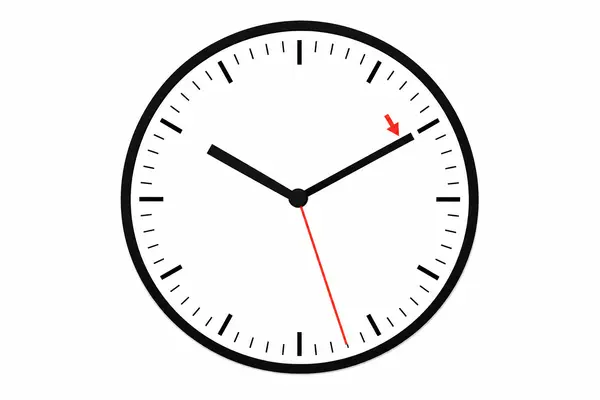
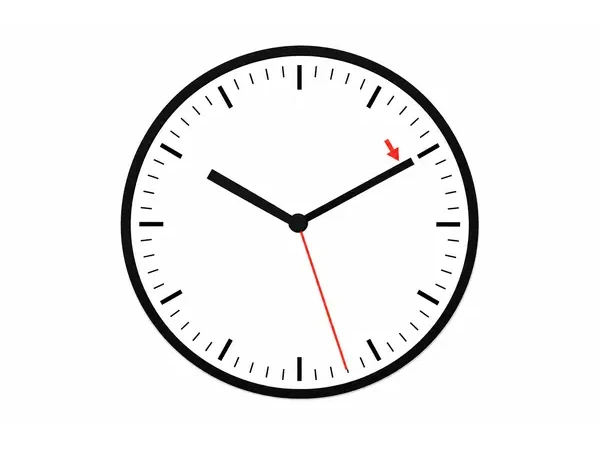
Vocab: images 4:3 (jours, heure) et illustrations manquantes
- Recadrer les jours V2.1 et seconde/heure/minute/horloge en 600×450
- Retirer la note théorie officielle/informelle dans V2.2
- Générer course, randonnée, table, tableau interactif (fond blanc réaliste)
- Corriger les chemins d’images course/randonnée/table et maj offline-manifest

diff --git a/lib/curriculum/content/francais/vocab-v2-heure.ts b/lib/curriculum/content/francais/vocab-v2-heure.ts
@@ -805,10 +805,6 @@ export const V2_HEURE_THEME: VocabTheme = {
         { h: 8,  m: 45, label: "8h45 — moins le quart" },
       ],
     },
-    {
-      type: "note",
-      text: "Heure officielle (formelle) : 14h30 = quatorze heures trente. Heure informelle : 14h30 = deux heures et demie de l'après-midi.",
-    },
   ],
   theoryPivot: [
     {
@@ -875,20 +871,6 @@ export const V2_HEURE_THEME: VocabTheme = {
         ps: ["8h00 — پر بجو","8h15 — او ربع","8h30 — او نیم","8h45 — ربع کم"],
       },
     },
-    {
-      type: "note",
-      text: {
-          en: "Official time (formal): 14h30 = fourteen thirty. Informal time: 14h30 = half past two in the afternoon.",
-          ar: "الوقت الرسمي (الفصيح): 14h30 = الرابعة عشرة وثلاثون دقيقة. الوقت غير الرسمي: 14h30 = الثانية والنصف بعد الظهر.",
-          fa: "زمان رسمی: 14h30 = چهارده و سی دقیقه. زمان غیررسمی: 14h30 = دو و نیم بعدازظهر.",
-          ti: "ወግዓዊ ሰዓት፦ 14h30 = ዓሰርተ ኣርባዕተን ሰላሳን። ዘይወግዓዊ ሰዓት፦ 14h30 = ክልተን ፈረቓን ድሕሪ ቀትሪ።",
-          uk: "Офіційний час: 14h30 = чотирнадцята тридцять. Неофіційний час: 14h30 = пів на третю дня.",
-          pt: "Hora oficial (formal): 14h30 = catorze horas e trinta. Hora informal: 14h30 = duas e meia da tarde.",
-          so: "Waqtiga rasmiga ah: 14h30 = afar iyo toban iyo soddon. Waqtiga aan rasmiga ahayn: 14h30 = laba iyo badh galabnimo.",
-          tr: "Resmî saat: 14h30 = on dört otuz. Günlük kullanım: 14h30 = öğleden sonra iki buçuk.",
-          ps: "رسمي وخت: 14h30 = څوارلس بجې او دېرش دقیقې. نا رسمي وخت: 14h30 = د ماسپښين دوه نيمې بجې.",
-        },
-    }
   ],
   sentences: [
     { sentence: "Je me lève à sept heures du ___.",                     answer: "matin" },

diff --git a/lib/curriculum/content/francais/vocab-v3-sport.ts b/lib/curriculum/content/francais/vocab-v3-sport.ts
@@ -439,7 +439,7 @@ export const V3_SPORT_THEME: VocabTheme = {
     },
     {
       word: "course",
-      image: "courir.webp",
+      image: "course.webp",
       article: "la",
       gender: "f",
       definition: ["Activité où l’on court."],
@@ -691,7 +691,7 @@ export const V3_SPORT_THEME: VocabTheme = {
     },
     {
       word: "randonnée",
-      image: "marcher.webp",
+      image: "randonnee.webp",
       article: "la",
       gender: "f",
       definition: ["Longue marche dans la nature."],

diff --git a/lib/curriculum/content/francais/vocab-v4-equipements.ts b/lib/curriculum/content/francais/vocab-v4-equipements.ts
@@ -19,7 +19,7 @@ export const V4_EQUIPEMENTS_THEME: VocabTheme = {
   words: [
     {
       word: "table",
-      image: "/assets/words/lecture/table.webp",
+      image: "table.webp",
       article: "la",
       gender: "f",
       definition: ["Meuble sur lequel on mange."],
